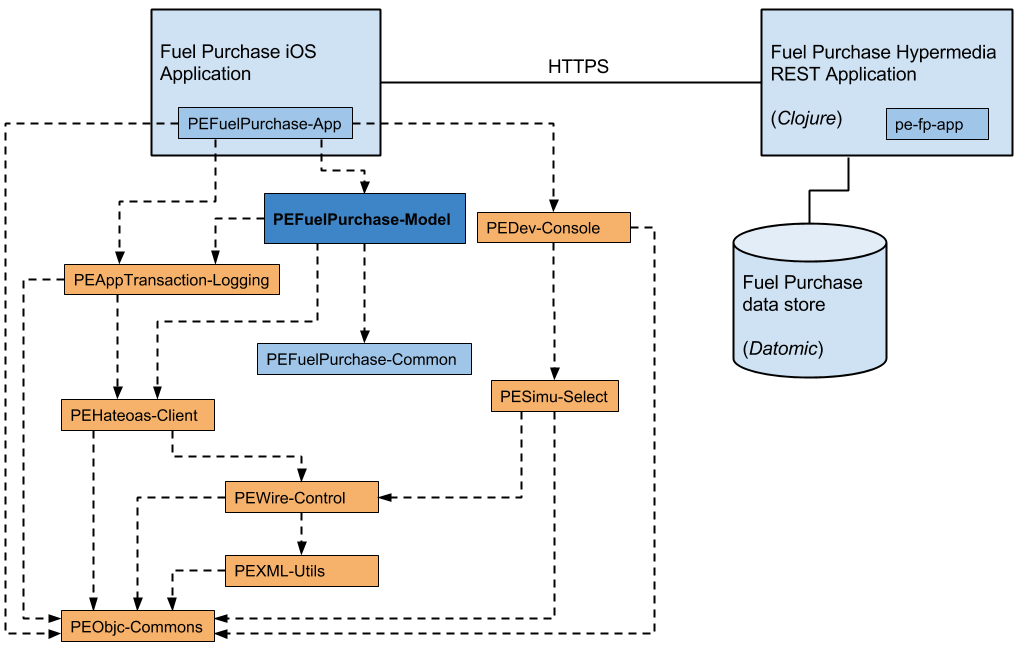
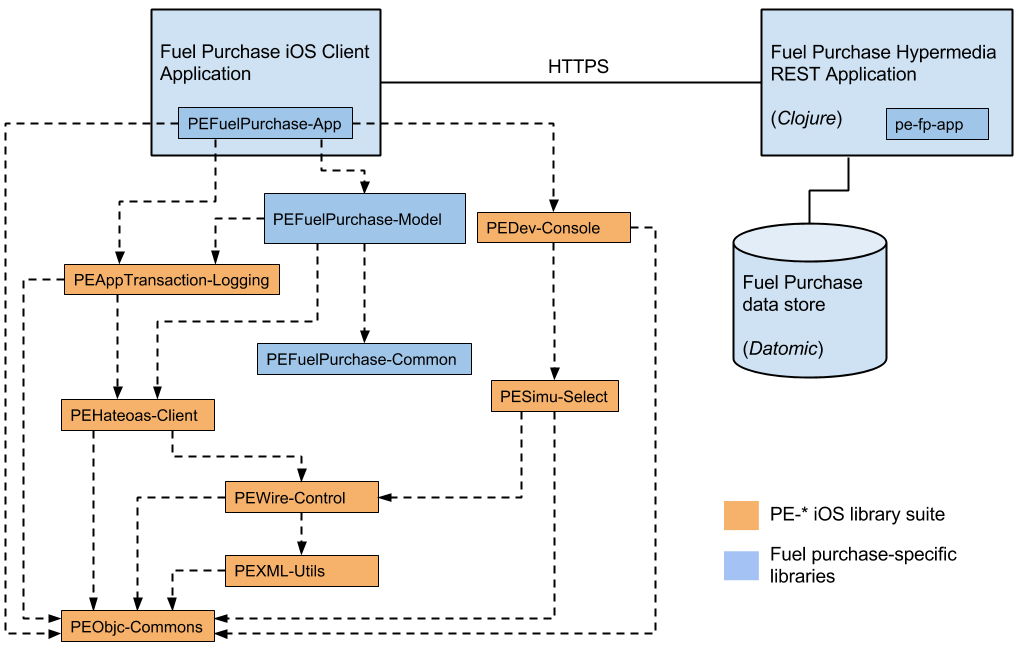
updated readme

Changed region(s): [[0.2434, 0.2765, 0.4563, 0.3994], [0.6997, 0.768, 0.9431, 0.8909], [0.3042, 0.0614, 0.3651, 0.0922]]

diff --git a/README.md b/README.md
@@ -14,7 +14,7 @@ applications.
 **Table of Contents**
 
 - [Component Layering](#component-layering)
-- [Deep Dependency Graph](#deep-dependency-graph)
+- [Dependency Graph](#dependency-graph)
 - [App-specific Libraries used by PEFuelPurchase-App](#app-specific-libraries)
 - [PE* iOS Library Suite](#pe-ios-library-suite)
 - [PEAppTransaction Logging Framework](#peapptransaction-logging-framework)
@@ -30,20 +30,36 @@ applications.
 
 <!-- END doctoc generated TOC please keep comment here to allow auto update -->
 
+## About the Fuel Purchase System
+
+The fuel purchase system, in its present form, is not meant to be terribly
+useful.  It exists more as a reference implementation for a set of libraries.
+The fuel purchase system is a client/server one.  This repo,
+*PEFuelPurchase-App*, represents a client-side application of the fuel purchase
+system.  The libraries it uses are generic, and thus are not coupled to the fuel
+purchase system.  These libraries are the
+[PE* iOS library suite](#pe-ios-library-suite).
+
+### Server-side Application
+
+The server-side application of the fuel purchase system provides a REST API
+endpoint (*written in Clojure*) for the client applications to consume:
+[pe-fp-app](https://github.com/evanspa/pe-fp-app).
+
 ## Component Layering
 
 The following diagram attempts to illustrate the layered architecture of the
-fuel purchase application.  The [fuel purchase model](#app-specific-libraries)
+fuel purchase iOS client application.  The [fuel purchase model](#app-specific-libraries)
 appears largest because it encapsulates the bulk of the application; the core
 logic, model and data access functionality.
 
 <img
 src="https://github.com/evanspa/PEFuelPurchase-App/raw/master/drawings/PEFuelPurchase-App-Component-Layers.png">
 
-## Deep Dependency Graph
+## Dependency Graph
 
 The following diagram attempts to illustrates the dependencies among the main
-components of the fuel purchase application.
+components of the fuel purchase iOS client application.
 
 <img
 src="https://github.com/evanspa/PEFuelPurchase-App/raw/master/drawings/PEFuelPurchase-App-Dependency-Graph.png">
